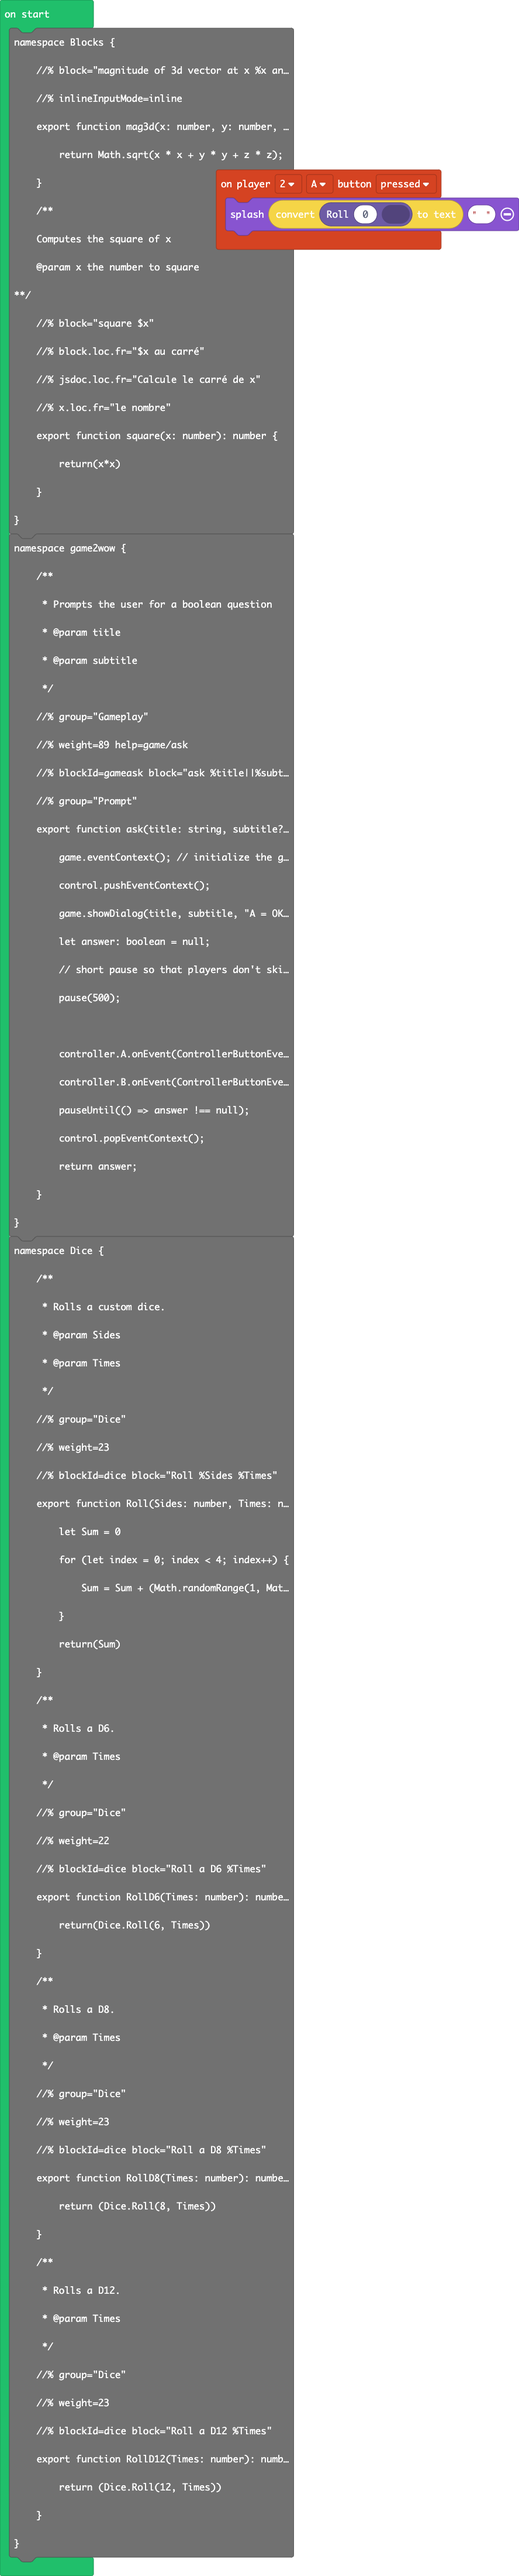
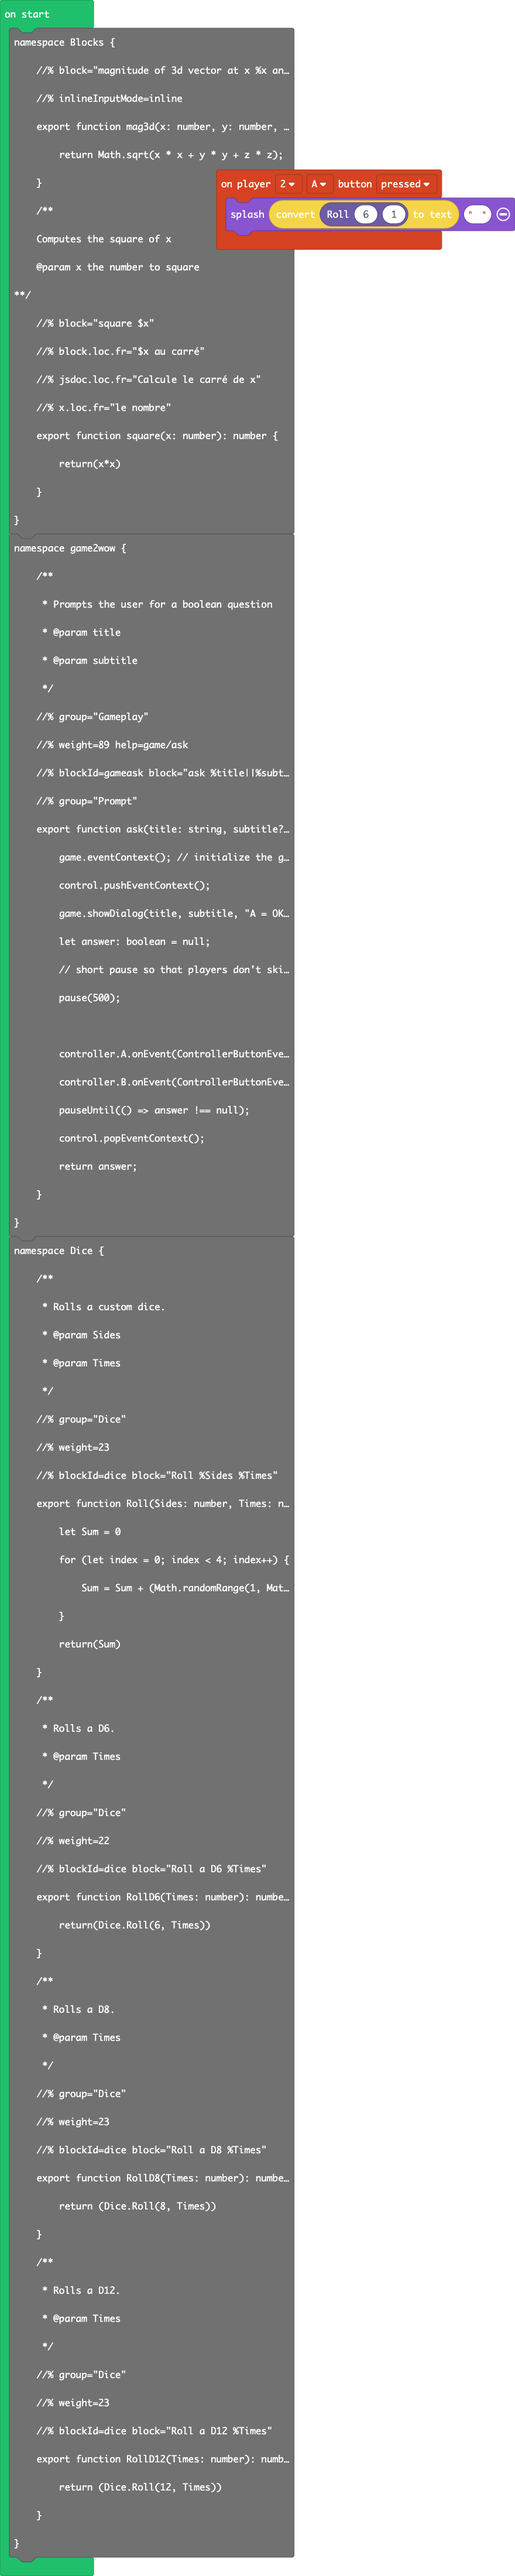
Update main.blocks, main.ts

diff --git a/main.ts b/main.ts
@@ -1,5 +1,5 @@
 controller.player2.onButtonEvent(ControllerButton.A, ControllerButtonEvent.Pressed, function () {
-    game.splash(convertToText(Dice.Roll(0, 0)), "")
+    game.splash(convertToText(Dice.Roll(6, 1)), "")
 })
 namespace Blocks {
     //% block="magnitude of 3d vector at x %x and y %y and z %z"
@@ -55,7 +55,7 @@ namespace Dice {
     //% blockId=dice block="Roll %Sides %Times"
     export function Roll(Sides: number, Times: number): number {
         let Sum = 0
-        for (let index = 0; index < 4; index++) {
+        for (let index = 0; index < Times; index++) {
             Sum = Sum + (Math.randomRange(1, Math.constrain(Sides, 1, 100)))
         }
         return(Sum)
